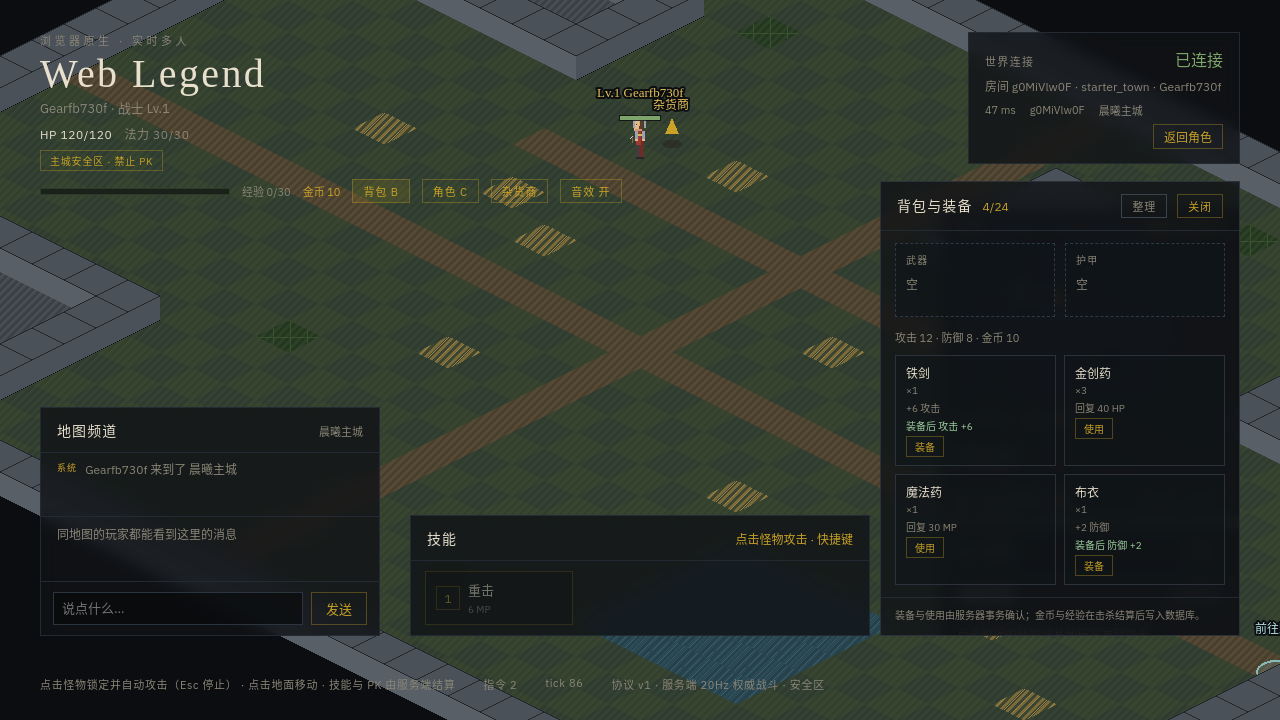
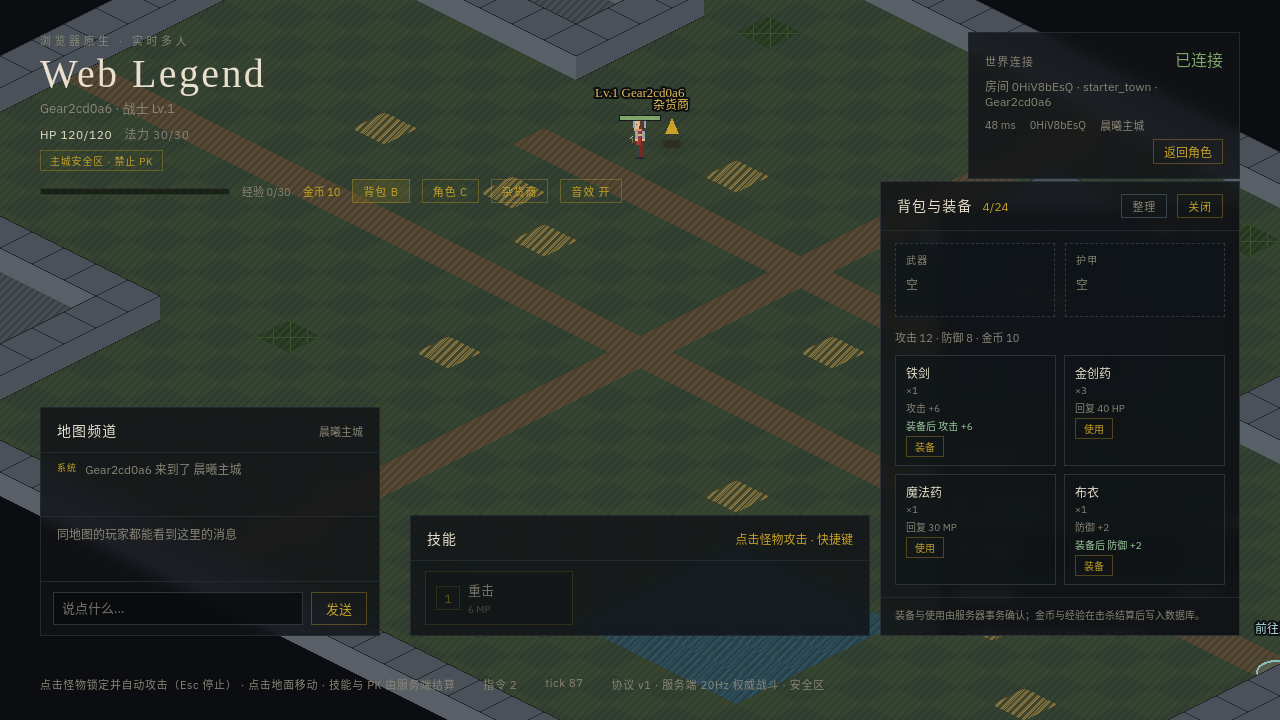
fix(alpha-02): show every equipment bonus in the bag, slots and shop
Armor with a health bonus only listed its defense while the comparison line
mentioned health. One shared stat line now renders attack, defense, health
and mana everywhere an item's stats appear.

diff --git a/apps/game-web/src/screens/GameScreen.tsx b/apps/game-web/src/screens/GameScreen.tsx
@@ -18,6 +18,7 @@ import { mapBundleFor, mapNameFor } from '../game/mapCatalog';
 import {
   describeDelta,
   equipmentDelta,
+  itemStatLine,
   qualityOf,
   sortBagItems,
   QUALITY_LABELS,
@@ -69,30 +70,7 @@ function describeDeathPenalty(
 }
 
 function describeShopOffer(offer: ShopOffer): string {
-  if (offer.kind === 'weapon') {
-    return `+${String(offer.attackBonus)} 攻击`;
-  }
-  if (offer.kind === 'armor') {
-    const parts = [`+${String(offer.defenseBonus)} 防御`];
-    if (offer.maxHpBonus > 0) {
-      parts.push(`+${String(offer.maxHpBonus)} 生命`);
-    }
-    if (offer.maxMpBonus > 0) {
-      parts.push(`+${String(offer.maxMpBonus)} 法力`);
-    }
-    return parts.join(' · ');
-  }
-  if (offer.kind === 'consumable') {
-    const parts: string[] = [];
-    if (offer.healHp > 0) {
-      parts.push(`回复 ${String(offer.healHp)} HP`);
-    }
-    if (offer.healMp > 0) {
-      parts.push(`回复 ${String(offer.healMp)} MP`);
-    }
-    return parts.join(' · ');
-  }
-  return '材料';
+  return itemStatLine(offer);
 }
 
 function AutoAttackBar({
@@ -1039,7 +1017,7 @@ export function GameScreen({ character, onExit }: GameScreenProps) {
               {equipment?.weapon !== null && equipment?.weapon !== undefined ? (
                 <div className="slot-body">
                   <strong>{equipment.weapon.name}</strong>
-                  <span>+{equipment.weapon.attackBonus} 攻击</span>
+                  <span>{itemStatLine(equipment.weapon)}</span>
                   <button
                     type="button"
                     data-testid="unequip-weapon"
@@ -1064,7 +1042,7 @@ export function GameScreen({ character, onExit }: GameScreenProps) {
               {equipment?.armor !== null && equipment?.armor !== undefined ? (
                 <div className="slot-body">
                   <strong>{equipment.armor.name}</strong>
-                  <span>+{equipment.armor.defenseBonus} 防御</span>
+                  <span>{itemStatLine(equipment.armor)}</span>
                   <button
                     type="button"
                     data-testid="unequip-armor"
@@ -1104,17 +1082,7 @@ export function GameScreen({ character, onExit }: GameScreenProps) {
                   ) : null}
                 </span>
                 <span className="bag-item-qty">×{item.quantity}</span>
-                <span className="bag-item-meta">
-                  {item.kind === 'weapon'
-                    ? `+${String(item.attackBonus)} 攻击`
-                    : item.kind === 'armor'
-                      ? `+${String(item.defenseBonus)} 防御`
-                      : item.kind === 'consumable'
-                        ? `回复 ${item.healHp > 0 ? `${String(item.healHp)} HP` : ''}${
-                            item.healMp > 0 ? ` ${String(item.healMp)} MP` : ''
-                          }`.trim()
-                        : '材料'}
-                </span>
+                <span className="bag-item-meta">{itemStatLine(item)}</span>
                 {comparisonFor(item) !== '' ? (
                   <span
                     className="bag-item-compare"

diff --git a/apps/game-web/src/lib/inventoryView.test.ts b/apps/game-web/src/lib/inventoryView.test.ts
@@ -2,7 +2,13 @@ import { describe, expect, it } from 'vitest';
 
 import type { ItemView } from '@web-legend/contracts';
 
-import { describeDelta, equipmentDelta, qualityOf, sortBagItems } from './inventoryView';
+import {
+  describeDelta,
+  equipmentDelta,
+  itemStatLine,
+  qualityOf,
+  sortBagItems,
+} from './inventoryView';
 
 function item(overrides: Partial<ItemView> & Pick<ItemView, 'itemId' | 'templateId'>): ItemView {
   return {
@@ -92,5 +98,61 @@ describe('bag sorting', () => {
     ];
     sortBagItems(items);
     expect(items.map((entry) => entry.itemId)).toEqual(['m', 'w']);
+  });
+});
+
+describe('item stat line', () => {
+  it('lists every bonus an equipment piece carries', () => {
+    expect(
+      itemStatLine(
+        item({
+          itemId: 'a',
+          templateId: 'flame',
+          attackBonus: 36,
+          maxHpBonus: 20,
+        }),
+      ),
+    ).toBe('攻击 +36 · 生命 +20');
+    expect(
+      itemStatLine(
+        item({
+          itemId: 'b',
+          templateId: 'soul',
+          attackBonus: 20,
+          maxHpBonus: 20,
+          maxMpBonus: 10,
+        }),
+      ),
+    ).toBe('攻击 +20 · 生命 +20 · 法力 +10');
+    expect(
+      itemStatLine(
+        item({
+          itemId: 'c',
+          templateId: 'chain',
+          kind: 'armor',
+          defenseBonus: 7,
+          maxHpBonus: 25,
+        }),
+      ),
+    ).toBe('防御 +7 · 生命 +25');
+  });
+
+  it('shows a single stat without padding', () => {
+    expect(
+      itemStatLine(item({ itemId: 'd', templateId: 'cloth', kind: 'armor', defenseBonus: 2 })),
+    ).toBe('防御 +2');
+  });
+
+  it('describes consumables, empty gear and materials', () => {
+    expect(
+      itemStatLine(
+        item({ itemId: 'e', templateId: 'potion', kind: 'consumable', healHp: 40, healMp: 30 }),
+      ),
+    ).toBe('回复 40 HP · 30 MP');
+    expect(
+      itemStatLine(item({ itemId: 'f', templateId: 'potion', kind: 'consumable', healMp: 30 })),
+    ).toBe('回复 30 MP');
+    expect(itemStatLine(item({ itemId: 'g', templateId: 'odd' }))).toBe('无属性加成');
+    expect(itemStatLine(item({ itemId: 'h', templateId: 'gel', kind: 'material' }))).toBe('材料');
   });
 });

diff --git a/apps/game-web/src/lib/inventoryView.ts b/apps/game-web/src/lib/inventoryView.ts
@@ -55,6 +55,46 @@ export function describeDelta(delta: StatDelta): string {
     .join(' · ');
 }
 
+export type ItemStatSource = Pick<
+  ItemView,
+  'kind' | 'attackBonus' | 'defenseBonus' | 'maxHpBonus' | 'maxMpBonus' | 'healHp' | 'healMp'
+>;
+
+/**
+ * Every stat an item actually carries. The bag, the equipment slots and the
+ * merchant all use this so a bonus can never be shown in one place and hidden
+ * in another.
+ */
+export function itemStatLine(item: ItemStatSource): string {
+  if (item.kind === 'weapon' || item.kind === 'armor') {
+    const parts: string[] = [];
+    if (item.attackBonus > 0) {
+      parts.push(`攻击 +${String(item.attackBonus)}`);
+    }
+    if (item.defenseBonus > 0) {
+      parts.push(`防御 +${String(item.defenseBonus)}`);
+    }
+    if (item.maxHpBonus > 0) {
+      parts.push(`生命 +${String(item.maxHpBonus)}`);
+    }
+    if (item.maxMpBonus > 0) {
+      parts.push(`法力 +${String(item.maxMpBonus)}`);
+    }
+    return parts.length > 0 ? parts.join(' · ') : '无属性加成';
+  }
+  if (item.kind === 'consumable') {
+    const parts: string[] = [];
+    if (item.healHp > 0) {
+      parts.push(`${String(item.healHp)} HP`);
+    }
+    if (item.healMp > 0) {
+      parts.push(`${String(item.healMp)} MP`);
+    }
+    return parts.length > 0 ? `回复 ${parts.join(' · ')}` : '无回复效果';
+  }
+  return '材料';
+}
+
 const QUALITY_RANK: Record<ItemQuality, number> = { rare: 1, common: 0 };
 const KIND_RANK: Record<ItemKind, number> = { weapon: 0, armor: 0, consumable: 1, material: 2 };
 

diff --git a/tests/e2e/equipment.spec.ts b/tests/e2e/equipment.spec.ts
@@ -96,6 +96,10 @@ test('bag shows quality and stat comparison, sorts gear first, and equips it', a
 
   const armorOffer = page.locator('[data-testid="shop-offer"][data-template-id="cloth_armor"]');
   await expect(armorOffer).toBeVisible();
+  // Every bonus the content defines is shown, including secondary stats.
+  await expect(
+    page.locator('[data-testid="shop-offer"][data-template-id="leather_armor"]'),
+  ).toContainText('防御 +5 · 生命 +15');
   await armorOffer.getByTestId('shop-buy').click();
   await expect(page.getByTestId('shop-gold')).toHaveText('金币 10', { timeout: 10_000 });
 
@@ -110,6 +114,7 @@ test('bag shows quality and stat comparison, sorts gear first, and equips it', a
   const armor = page.locator('[data-testid="inventory-item"][data-template-id="cloth_armor"]');
   await expect(armor).toHaveCount(1);
   await expect(armor).toHaveAttribute('data-quality', 'common');
+  await expect(armor.locator('.bag-item-meta')).toHaveText('防御 +2');
   await expect(armor.getByTestId('equipment-comparison')).toHaveAttribute(
     'data-comparison',
     '装备后 防御 +2',
@@ -135,6 +140,7 @@ test('bag shows quality and stat comparison, sorts gear first, and equips it', a
     'cloth_armor',
     { timeout: 10_000 },
   );
+  await expect(page.getByTestId('equipment-armor')).toContainText('防御 +2');
   await expect(
     page.locator('[data-testid="inventory-item"][data-template-id="cloth_armor"]'),
   ).toHaveCount(0);

diff --git a/docs/phase-reports/alpha-02/ALPHA_02_EQUIPMENT_REPORT.md b/docs/phase-reports/alpha-02/ALPHA_02_EQUIPMENT_REPORT.md
@@ -59,7 +59,7 @@ S1–S3 让玩家能买卖、有技能、怕死亡，但“打怪 → 掉落 →
 | ---------- | ----------------------------- | ------------------------------------------------------------------- |
 | 格式/lint  | `pnpm format:check`、`lint`   | 通过（0 error / 0 warning）                                         |
 | 类型       | `pnpm typecheck`              | 通过（根 + 15 个 workspace）                                        |
-| 单元/集成  | `pnpm test`                   | 67 文件、**433 测试**通过（新增 9 条）                              |
+| 单元/集成  | `pnpm test`                   | 67 文件、**436 测试**通过（新增 12 条，含属性行修复）               |
 | 构建       | `pnpm build`                  | 4 个应用成功                                                        |
 | 浏览器 E2E | `pnpm test:e2e`               | **32/32 通过**（3.8 分钟，2 worker，独立库/端口）                   |
 | 新装备 E2E | `tests/e2e/equipment.spec.ts` | 品质属性、装备后 +2 防御、整理后装备在前、装备后服务端防御 8 → 10   |
@@ -82,6 +82,11 @@ armor-equipped、dev-bag、dev-shop）。
 4. **E2E 复用同一只史莱姆导致假失败。** `skills.spec.ts` 两个用例共用
    `wilds_slime_10`，道士用例先打掉部分生命/拉走仇恨，战士用例等待 attack 超时
    （TD-QA-11 同类）。给每个用例分配独立刷点后 2/2 稳定通过。
+5. **装备属性显示不完整（试玩反馈）。** 背包与装备槽只显示主属性：带生命的
+   皮甲/锁子甲只写“防御 +X”，而对比行却出现“生命 +Y”，两处信息不一致。
+   把“物品属性行”收敛为 `itemStatLine`（攻击/防御/生命/法力/回复全量输出），
+   背包、装备槽与商店共用同一函数；补充 3 条单元断言与 E2E 对“防御 +5 ·
+   生命 +15”的校验。
 
 ## 5. 尚未解决
 

diff --git a/docs/WORKLOG.md b/docs/WORKLOG.md
@@ -2460,3 +2460,14 @@ pnpm test:e2e
 1. 8584 试玩：击杀森林狼/石甲守卫/白狼王观察掉落，回城购买 3 级武器。
 2. S4 后续：图标与 HUD 重排、正式美术、丢弃物品、装备槽评估。
 3. 确认远端 CI。
+
+### 追加修复（2026-11-26）：装备属性行显示不完整
+
+- 反馈：带生命的护甲在背包只显示“防御 +X”，而对比行出现“生命 +Y”，两处
+  信息不一致，玩家无法确认装备实际提供哪些属性。
+- 改动：新增 `itemStatLine`（`apps/game-web/src/lib/inventoryView.ts`），
+  统一输出攻击/防御/生命/法力与消耗品回复；背包物品、装备槽与商店共用该函数。
+- 测试：`inventoryView.test.ts` 新增 3 条属性行断言；`equipment.spec.ts` 增加
+  商店皮甲“防御 +5 · 生命 +15”与背包/装备槽属性断言。
+- 结果：67 文件、**436 测试**通过；全量 E2E **32/32** 通过；构建与静态门禁通过。
+- 开发栈：Vite 热更新已生效，`dev-shop.png` / `dev-bag.png` 更新为统一属性行。
